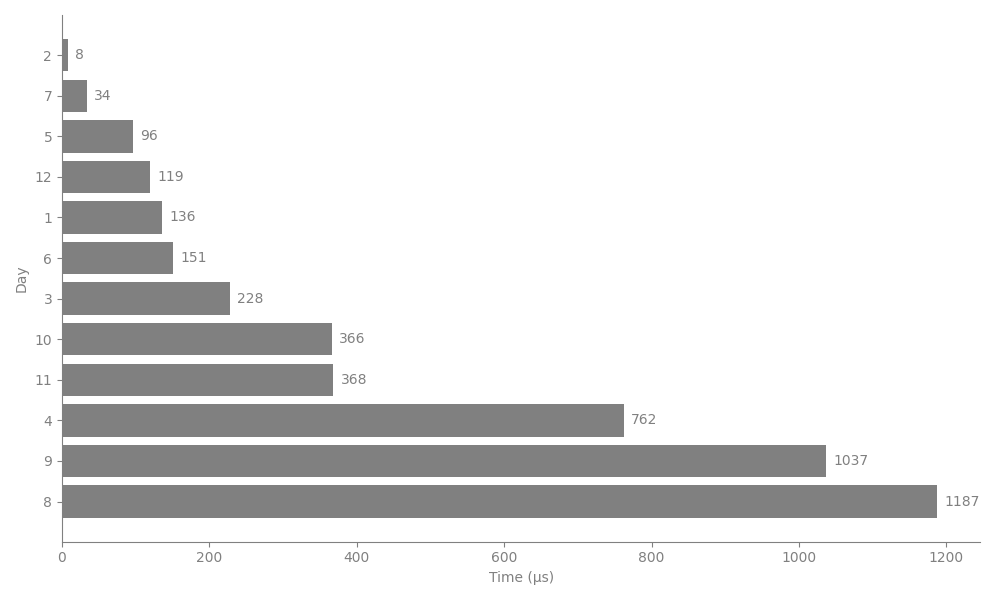
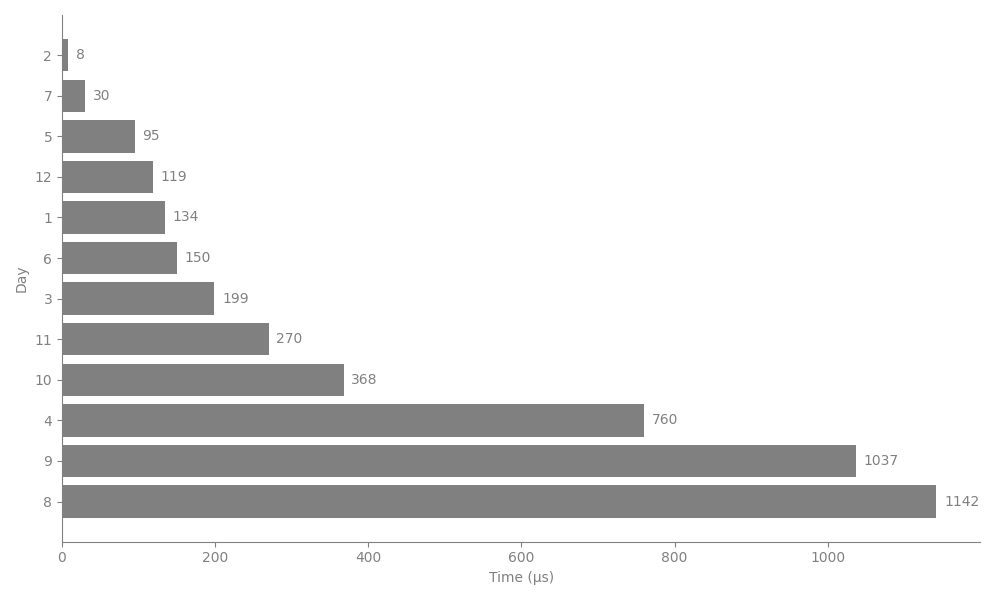
Fix map size 25/11 rebench

diff --git a/2025/barchart.py b/2025/barchart.py
@@ -1,15 +1,12 @@
 import matplotlib.pyplot as plt
 
 # Data
-days = [
-    "2", "7", "5", "12", "1", "6",
-    "3", "10", "11", "4", "9", "8"
-]
-times = [8, 34, 96, 119, 136, 151, 228, 366, 368, 762, 1037, 1187]
+days = ["2", "7", "5", "12", "1", "6", "3", "11", "10", "4", "9", "8"]
+times = [8, 30, 95, 119, 134, 150, 199, 270, 368, 760, 1037, 1142]
 
 # Colors and text color
-bar_color = "#808080"       # medium gray bars
-text_color = "#808080"      # medium gray text
+bar_color = "#808080"  # medium gray bars
+text_color = "#808080"  # medium gray text
 
 # Create figure
 fig, ax = plt.subplots(figsize=(10, 6))
@@ -20,17 +17,23 @@ bars = ax.barh(days, times, color=bar_color)
 # Add labels on bars
 for bar in bars:
     width = bar.get_width()
-    ax.text(width + 10, bar.get_y() + bar.get_height()/2,
-            f'{width}', va='center', ha='left', color=text_color)
+    ax.text(
+        width + 10,
+        bar.get_y() + bar.get_height() / 2,
+        f"{width}",
+        va="center",
+        ha="left",
+        color=text_color,
+    )
 
 # Style axes
 ax.set_xlabel("Time (μs)", color=text_color)
 ax.set_ylabel("Day", color=text_color)
 ax.tick_params(colors=text_color)  # axis tick labels
-ax.spines['top'].set_visible(False)
-ax.spines['right'].set_visible(False)
-ax.spines['left'].set_color(text_color)
-ax.spines['bottom'].set_color(text_color)
+ax.spines["top"].set_visible(False)
+ax.spines["right"].set_visible(False)
+ax.spines["left"].set_color(text_color)
+ax.spines["bottom"].set_color(text_color)
 
 # Transparent background
 fig.patch.set_alpha(0.0)
@@ -42,4 +45,3 @@ ax.invert_yaxis()
 plt.tight_layout()
 plt.savefig("barchart.png", transparent=True)
 plt.show()
-

diff --git a/2025/11/aoc11.go b/2025/11/aoc11.go
@@ -85,7 +85,7 @@ func main() {
 	dp := make(map[uint32]int)
 
 	// presence map to avoid cycles
-	seen := make([]int, MaxID)
+	seen := make([]uint8, MaxID)
 
 	var recount func(cur int, hasDac, hasFft bool) int
 
@@ -93,13 +93,13 @@ func main() {
 		k := dpk(cur, hasDac, hasFft) // unique key
 
 		// cycle detection
-		if seen[cur] > 0 {
+		if seen[cur] == Seen {
 			return 0
 		}
 
 		// memoization check
-		if v, ok := dp[k]; ok {
-			return v
+		if count, ok := dp[k]; ok {
+			return count
 		}
 
 		// base case
@@ -110,13 +110,13 @@ func main() {
 			return 0
 		}
 
-		seen[cur]++                    // mark current node as seen
-		defer func() { seen[cur]-- }() // backtrack on return
+		seen[cur] = Seen                      // mark current node as seen
+		defer func() { seen[cur] = Unseen }() // backtrack on return
 
 		// explore neighbors
 		count := 0
 		for _, nxt := range edges[cur] {
-			if seen[nxt] == 0 { // recurse only if not already visited
+			if seen[nxt] == Unseen { // recurse only if not already visited
 				count += recount(
 					nxt,
 					hasDac || nxt == dac,
@@ -134,6 +134,12 @@ func main() {
 
 	fmt.Println(acc1, acc2, time.Since(t0))
 }
+
+const (
+	// sugars for presence map
+	Unseen = iota
+	Seen
+)
 
 const (
 	// MaxID is the maximum number of unique 3-letter IDs expected in input

diff --git a/2025/README.md b/2025/README.md
@@ -1,6 +1,6 @@
 # Summary
 
-This repository contains optimized solutions for Advent of Code 2025, implemented in [Go](https://en.wikipedia.org/wiki/Go_(programming_language)) with a focus on performance and educational value. The whole collection runs all days and all parts in about ~~9~~ 4.5ms. Each day is solved in a single, dependency-free [Go](https://go.dev) file.
+This repository contains optimized solutions for Advent of Code 2025, implemented in [Go](https://en.wikipedia.org/wiki/Go_(programming_language)) with a focus on performance and educational value. The whole collection runs all days and all parts in about 4.3 ms. Each day is solved in a single, dependency-free [Go](https://go.dev) file.
 
 ## Quick Navigation
 
@@ -64,19 +64,19 @@ This repository contains optimized solutions for Advent of Code 2025, implemente
 
 | Day                                 | Time (μs) | % of Total  |
 |-------------------------------------|----------:|------------:|
-| [**2**](#day-2-gift-shop-)          |         8 |       0.18% |
-| [7](#day-7-laboratories-)           |        34 |       0.76% |
-| [5](#day-5-cafeteria-)              |        96 |       2.14% |
-| [12](#day-12-christmas-tree-farm-)  |       119 |       2.65% |
-| [1](#day-1-secret-entrance-)        |       136 |       3.03% |
-| [6](#day-6-trash-compactor-)        |       151 |       3.36% |
-| [3](#day-3-lobby-)                  |       228 |       5.08% |
-| [10](#day-10-factory-)              |       366 |       8.15% |
-| [11](#day-11-reactor-)              |       368 |       8.20% |
-| [4](#day-4-printing-department-)    |       762 |      16.97% |
-| [9](#day-9-movie-theater-)          |     1,037 |      23.09% |
-| [8](#day-8-playground-)             |     1,187 |      26.45% |
-| **Total**                           | **4,491** | **100.00%** |
+| [**2**](#day-2-gift-shop-)          |         8 |       0.19% |
+| [7](#day-7-laboratories-)           |        30 |       0.70% |
+| [5](#day-5-cafeteria-)              |        95 |       2.20% |
+| [12](#day-12-christmas-tree-farm-)  |       119 |       2.76% |
+| [1](#day-1-secret-entrance-)        |       134 |       3.11% |
+| [6](#day-6-trash-compactor-)        |       150 |       3.48% |
+| [3](#day-3-lobby-)                  |       199 |       4.62% |
+| [11](#day-11-reactor-)              |       270 |       6.26% |
+| [10](#day-10-factory-)              |       366 |       8.49% |
+| [4](#day-4-printing-department-)    |       760 |      17.63% |
+| [9](#day-9-movie-theater-)          |     1,037 |      24.07% |
+| [8](#day-8-playground-)             |     1,142 |      26.49% |
+| **Total**                           | **4,310** | **100.00%** |
 
 fastest of 100 runs for part1&2 in μs - mbair M1/16GB - darwin 24.6.0 - go1.25.3 darwin/arm64 with greentea GC - 2025-12
 
@@ -612,7 +612,7 @@ To this end, I used [recursive](https://en.wikipedia.org/wiki/Recursion) [DFS](h
 
 `<EDIT>` part 1 is iterative now but I think I'll leave part 2 alone because it won't stay as neat otherwise.
 
-`<EDIT>` I’ve upped the ante by speeding up the maps. For the three-letter tags, I eliminated the map entirely thanks to the small hash space. For the DP state, I converted it to a uint32 using an ad-hoc hashing routine. It runs in under 281µs.
+`<EDIT>` I’ve upped the ante by speeding up the maps. For the three-letter tags, I eliminated the map entirely thanks to the small hash space. For the DP state, I converted it to a uint32 using an ad-hoc hashing routine. It runs in under 270µs.
 
 ```bash
 ❯ make bench
@@ -678,63 +678,79 @@ PS. I’m trying to compete in the `Red(dit) One` part of AoC, namely for [Day 1
   <img src="./images/lumon.jpg" alt="A Severance Lumon OS screen displaying numbers" width="60%" />
 </div>
 
+### Inputs
+
+| Day  | Lines | Chars | Type    |
+|:-----|------:|------:|---------|
+| 1    |    5K |   20K | numbers |
+| 2    |     1 |   500 | numbers |
+| 3    |   200 |   20K | strings |
+| 4    |   150 |   20K | grid    |
+| 5    |    1K |   20K | numbers |
+| 6    |    10 |   20K | grid    |
+| 7    |   200 |   20K | grid    |
+| 8    |    1K |   20K | numbers |
+| 9    |   500 |    6K | numbers |
+| 10   |   200 |   20K | tokens  |
+| 11   |    1K |   10K | strings |
+| 12   |    1K |   20K | hybrid  |
+
 ### LOC
 
 | Day | Go Lines |
 |:----|---------:|
-|   7 |       38 |
-|   3 |       64 |
-|  12 |       61 |
-|   5 |       85 |
-|  11 |       86 |
-|   6 |       87 |
-|   8 |      112 |
-|   1 |      117 |
-|   9 |      116 |
-|   4 |      203 |
-|   2 |      258 |
-|  10 |      381 |
+| 7   |       39 |
+| 3   |       64 |
+| 12  |       66 |
+| 5   |       77 |
+| 6   |       88 |
+| 11  |      102 |
+| 1   |      117 |
+| 8   |      119 |
+| 9   |      121 |
+| 2   |      255 |
+| 4   |      205 |
+| 10  |      382 |
 
 ```bash
 ❯ cloc 1 2 3 4 5 6 7 8 9 10 11 12
-      63 text files.
-      53 unique files.
+      64 text files.
+      54 unique files.
       12 files ignored.
 
-github.com/AlDanial/cloc v 2.06  T=0.05 s (1119.8 files/s, 265075.6 lines/s)
+github.com/AlDanial/cloc v 2.06  T=0.05 s (1100.1 files/s, 260793.0 lines/s)
 -------------------------------------------------------------------------------
 Language                     files          blank        comment           code
 -------------------------------------------------------------------------------
 Text                            26             14              0           9903
-Go                              15            507            385           1608
+Go                              15            522            439           1635
+Python                           2             29             35            139
 Markdown                         9             12              0             71
-Python                           1              9             13             22
 make                             2              0              0              2
 -------------------------------------------------------------------------------
-SUM:                            53            542            398          11606
+SUM:                            54            577            474          11750
 -------------------------------------------------------------------------------
 ```
 
 ### Cyclomatic complexity over 10
 
 ```bash
-❯ make cyclo
-19 main main 6/aoc6.go:21:1
-19 main main 4/aoc4.go:22:1
-17 main main 11/aoc11.go:21:1
-17 main min3D 10/aoc10.go:386:1
-16 main main 9/aoc9.go:13:1
-16 main part2 10/aoc10.go:115:1
-13 main hnf 10/aoc10.go:205:1
+20 main main 4/aoc4.go:22:1
+19 main main 6/aoc6.go:23:1
+17 main main 9/aoc9.go:13:1
+17 main min3D 10/aoc10.go:419:1
+16 main main 11/aoc11.go:21:1
+16 main part2 10/aoc10.go:124:1
+14 main main 8/aoc8.go:25:1
+13 main hnf 10/aoc10.go:225:1
 12 main main 2/aoc2.go:24:1
-12 main min2D 10/aoc10.go:318:1
-11 main main 8/aoc8.go:24:1
-Average: 4.92
+12 main min2D 10/aoc10.go:350:1
+Average: 4.91
 ```
 
 Day 10 is a major contributor in this table, and implementing [BLAS](https://en.wikipedia.org/wiki/Basic_Linear_Algebra_Subprograms) algorithms is certainly quite sophisticated. For instance, they are usually as huge (LOC-wise) as they are fast; this means that the code bails out at the first opportunity, leading to a mechanical increase in cyclomatic complexity. It’s no wonder the [simplex algorithm](https://en.wikipedia.org/wiki/Simplex_algorithm) of my first approach was rated 41. Implementing one is not easy and introduces challenges ranging from structural design to numerical instability. It’s a sophisticated technique developed in the mid-20th century that reached peak prominence in the late 1990s. With recent progress in applying [linear programming](https://en.wikipedia.org/wiki/Linear_programming) to AI, it’s seeing a revival in certain hybrid AI [planning](https://arxiv.org/abs/2509.21014) pipelines.
 
-Complexity in [10-20] always ends up in main(). It’s proof that I focused on speed this year, but hopefully the solutions are still easy to read. Still I am quite happy with an average of 4.92.
+Complexity in [10-20] always ends up in main(). It’s proof that I focused on speed this year, but hopefully the solutions are still easy to read. Still I am quite happy with an average of 4.91.
 
 [Cyclomatic complexity](https://en.wikipedia.org/wiki/Cyclomatic_complexity) is debatable, but as I see it, it is a convenient way to classify the kind of [testing](https://en.wikipedia.org/wiki/Software_testing) needed to prove [correctness](https://en.wikipedia.org/wiki/Correctness_(computer_science)).
 
@@ -752,7 +768,6 @@ Complexity in [10-20] always ends up in main(). It’s proof that I focused on s
 <div align="center">
   <img src="./images/calendar.png" alt="AoC 2025 ASCII Art" width="60%" />
 </div>
-
 
 <br>
 <br>
